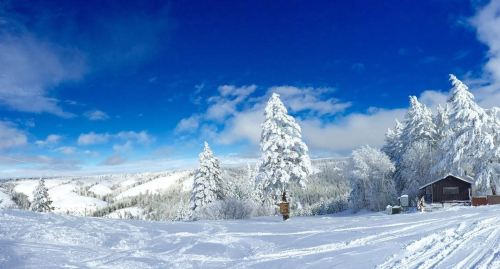
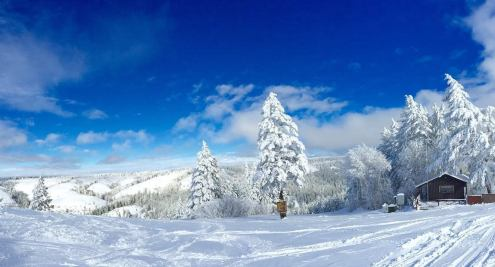
home page

diff --git a/lesson11/index.html b/lesson11/index.html
@@ -48,8 +48,8 @@
         <div class="herodiv">
             <picture>
                 <source media="(max-width: 500px)" srcset="images/SEidahoSm.jpg">
-                <source media="(max-width: 800px)" srcset="images/hero-medium.jpg">
-                <img src="images/hero-large.jpg" alt="hero">
+                <source media="(max-width: 800px)" srcset="images/SEidahoMed.jpg">
+                <img src="images/SEidahoLg.jpg" alt="hero">
             </picture>
             <div class="cards"></div>
     </main>
